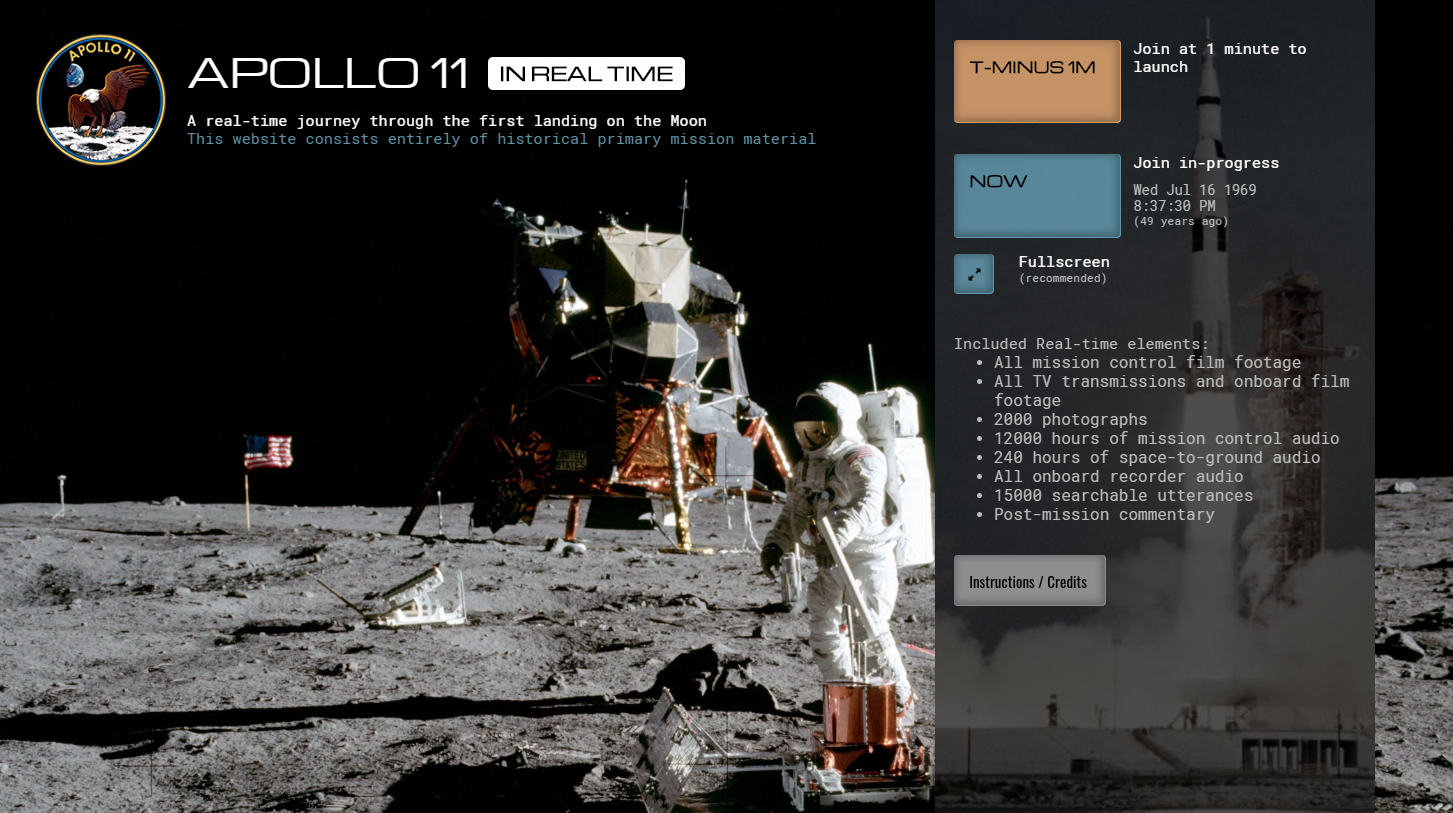
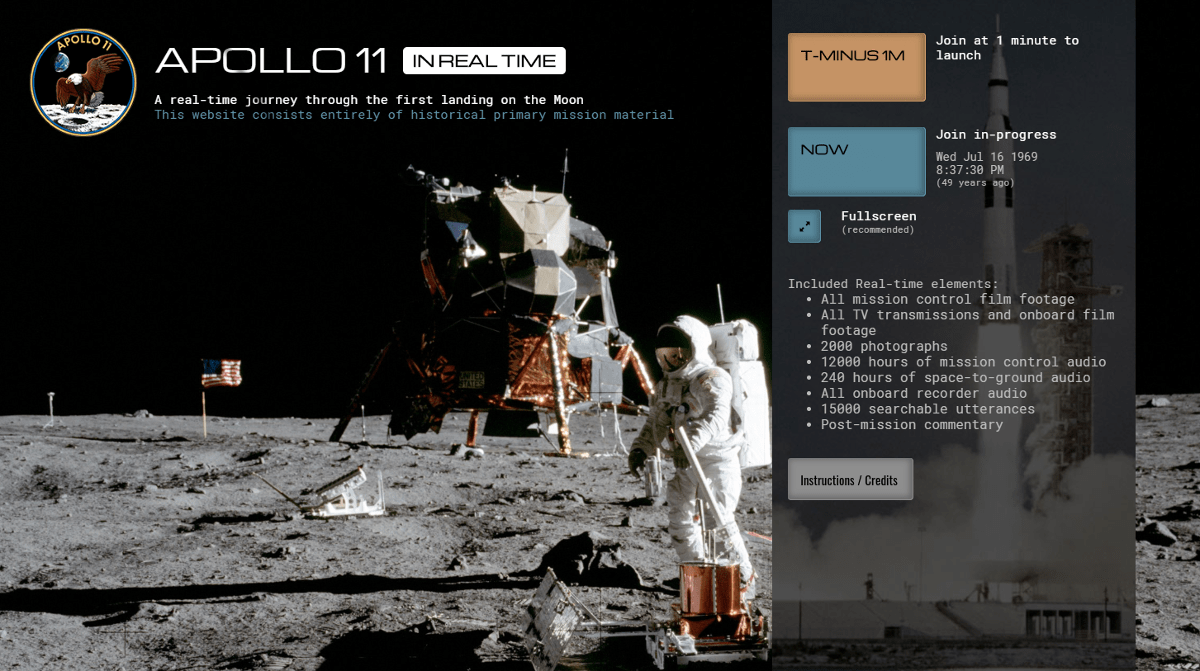
Small fixes and changes. LAUNCHED

diff --git a/_website/_webroot/11/index.html b/_website/_webroot/11/index.html
@@ -293,14 +293,14 @@
       <div class="actions">
 
           <div class="section">
-              <a data-loading-text="Loading..." class="splash-btn simplemodal-close primary" onclick="oneMinuteToLaunchButtonClick(); return false;" >
+              <a data-loading-text="Loading..." class="splash-btn simplemodal-close primary" role="button" onclick="oneMinuteToLaunchButtonClick(); return false;" >
                   <span class="splash-btn-title">T-MINUS 1M</span>
               </a>
               <div>Join at 1  minute to launch</div>
           </div>
 
           <div class="section now">
-              <a class="splash-btn simplemodal-close" onclick="historicalButtonClick(); return false;">
+              <a class="splash-btn simplemodal-close" role="button" onclick="historicalButtonClick(); return false;">
                   <span id="labelRealtime" class="splash-btn-title">NOW</span>
               </a>
               <div>
@@ -327,7 +327,7 @@
                   <li>All mission control film footage</li>
                   <li>All TV transmissions and onboard film footage</li>
                   <li>2,000 photographs</li>
-                  <li>11,000 hours of mission control audio</li>
+                  <li>11,000 hours of Mission Control audio</li>
                   <li>240 hours of space-to-ground audio</li>
                   <li>All onboard recorder audio</li>
                   <li>15,000 searchable utterances</li>
@@ -409,7 +409,7 @@
                       <span class="accent">Ben Feist</span> Concept, research, mission data restoration, audio restoration, video, software architecture and programming. Follow <a href="https://twitter.com/benfeist" target="_blank" style="color: yellow;">@BenFeist</a> for updates.
                       <br>
                       <br>
-                      <span class="accent">Stephen Slater</span> Archive Producer, historical audio/footage syncronization
+                      <span class="accent">Stephen Slater</span> Archive Producer, historical audio/footage synchronization
                       <br>
                       <br>
                       <span class="accent">Chris Bennett</span> Visual design, interface styling and programming
@@ -463,6 +463,8 @@
                       <span class="accent">David Woods</span> Author, <a href="http://www.hafttm.com/" target="_blank">How Apollo Flew to the Moon</a>
                       <br>
                       <span class="accent">Kipp Teague</span> <a href="https://www.flickr.com/photos/projectapolloarchive/albums" target="_blank">Apollo mission photography</a>
+                      <br>
+                      <span class="accent">Paul Vanezis</span> EVA footage
                       <br>
                       <a href="http://history.nasa.gov/afj/" target="_blank">NASA Apollo Flight Journal</a>
                       <br>